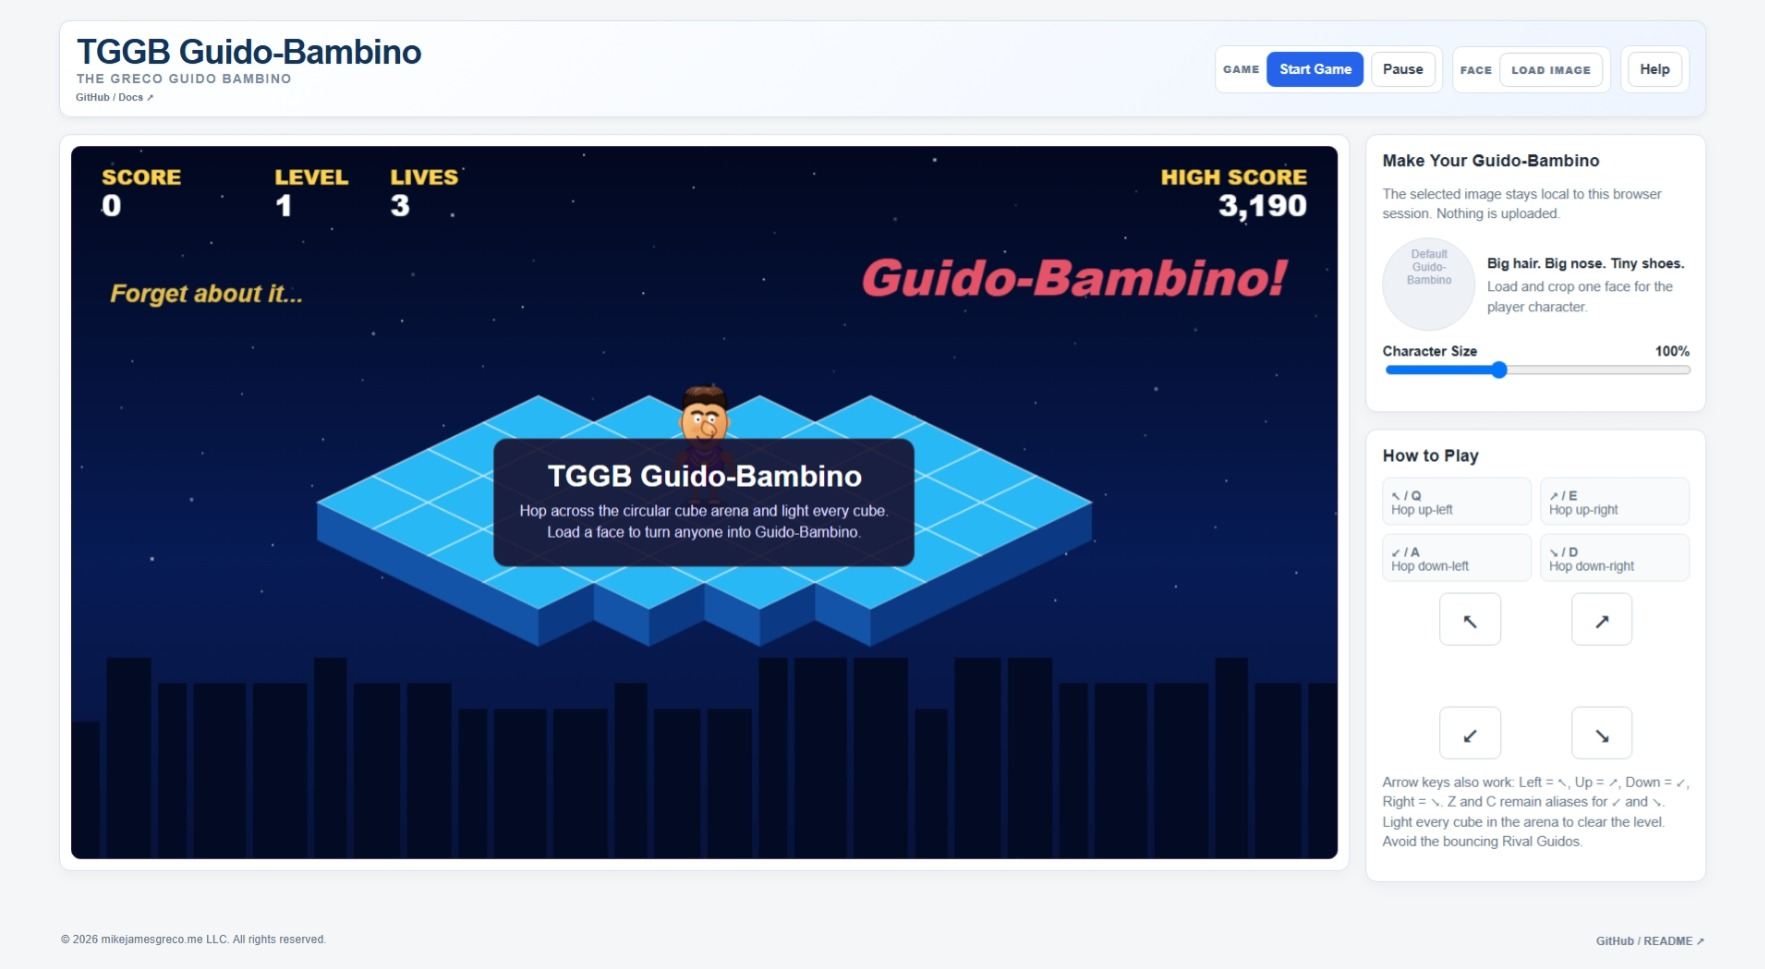
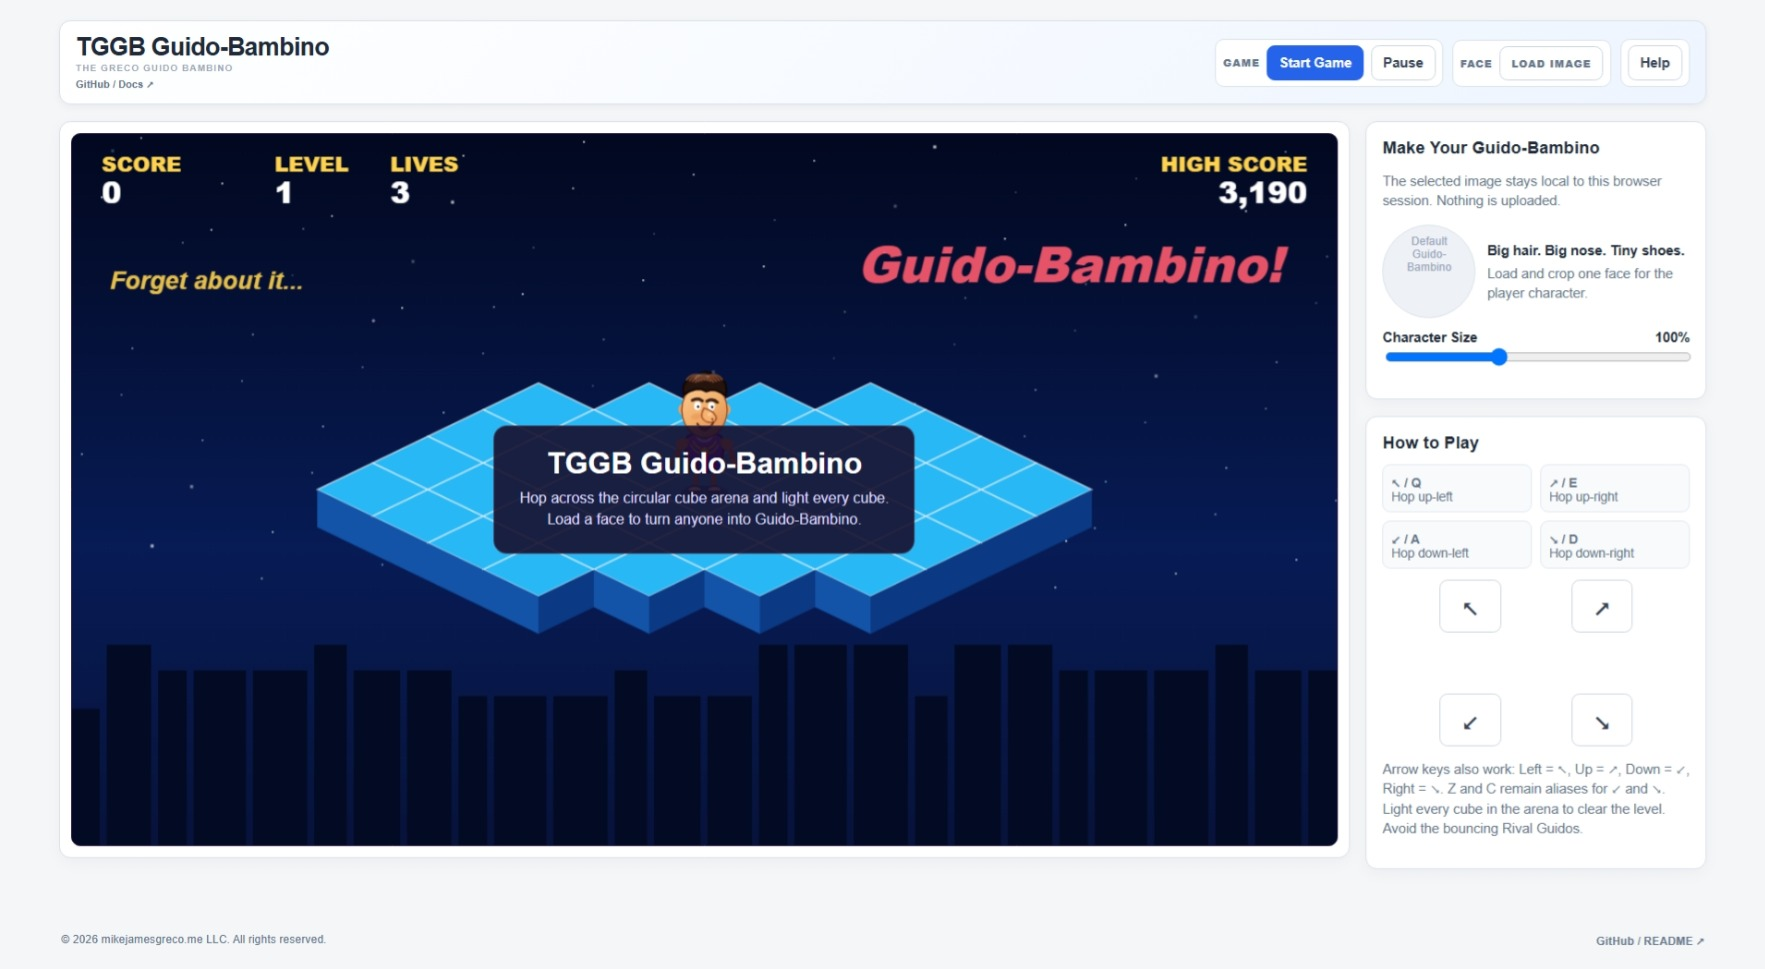
title update

diff --git a/tggb-guido-bambino.html b/tggb-guido-bambino.html
@@ -11,7 +11,7 @@
 html,body{margin:0;min-height:100%;font-family:Arial,Helvetica,sans-serif;background:var(--bg);color:var(--text)}
 body{padding:18px;overflow-y:auto}.app{max-width:1450px;margin:0 auto;min-height:calc(100vh - 36px);display:flex;flex-direction:column;gap:14px}
 .topbar{display:flex;align-items:center;justify-content:space-between;gap:14px;flex-wrap:wrap;padding:12px 14px;background:linear-gradient(135deg,#ffffff,#eef5ff);border:1px solid var(--line);border-radius:10px;box-shadow:0 2px 8px rgba(15,23,42,.05)}
-.brand{display:flex;flex-direction:column;gap:2px}.brand strong{font-size:30px;color:#12345b;line-height:1.02;letter-spacing:-.03em}.brand small{font-size:11px;font-weight:700;letter-spacing:.12em;text-transform:uppercase;color:#64748b;animation:blink 2.2s ease-in-out infinite}.brand .docs-link{font-size:9px;font-weight:700;color:#64748b;text-decoration:none;margin-top:1px}.brand .docs-link:hover{color:var(--blue);text-decoration:underline}@keyframes blink{0%,100%{opacity:.28}50%{opacity:.95}}
+.brand{display:flex;flex-direction:column;gap:2px}.brand strong{font-size:22px;line-height:1.02;letter-spacing:-.03em}.brand small{font-size:8px;font-weight:700;letter-spacing:.12em;text-transform:uppercase;color:#64748b;animation:blink 2.2s ease-in-out infinite}.brand .docs-link{font-size:9px;font-weight:700;color:#64748b;text-decoration:none;margin-top:1px}.brand .docs-link:hover{color:var(--blue);text-decoration:underline}@keyframes blink{0%,100%{opacity:.28}50%{opacity:.95}}
 .controls{display:flex;align-items:end;gap:8px;flex-wrap:wrap}.group{display:flex;align-items:center;gap:6px;padding:5px 6px;background:#fff;border:1px solid var(--line);border-radius:8px}.group label{font-size:9px;text-transform:uppercase;letter-spacing:.08em;font-weight:800;color:#64748b}
 button,.filebtn{border:1px solid #cbd5e1;background:#fff;color:#334155;border-radius:7px;padding:8px 10px;font:700 12px Arial,Helvetica,sans-serif;cursor:pointer;text-decoration:none;display:inline-flex;align-items:center;gap:6px}button:hover,.filebtn:hover{border-color:#94a3b8}button.primary{background:var(--blue);border-color:var(--blue);color:#fff}button.primary:hover{background:var(--blue2)}button:disabled{opacity:.45;cursor:not-allowed}input[type=file]{display:none}
 .layout{display:grid;grid-template-columns:minmax(0,1fr) 300px;gap:14px;align-items:start}.gamecard,.sidecard{background:#fff;border:1px solid var(--line);border-radius:10px;box-shadow:0 4px 15px rgba(15,23,42,.04)}.gamecard{padding:10px}.hud{display:none}.stat{background:var(--soft);border:1px solid #e2e8f0;border-radius:8px;padding:7px 8px}.stat b{display:block;font-size:15px}.stat span{font-size:9px;text-transform:uppercase;letter-spacing:.08em;color:#64748b;font-weight:800}
@@ -36,7 +36,7 @@ footer{margin-top:auto;padding:10px 2px 2px;color:#64748b;font-size:10px;display
 <div class="helpback" id="helpBack"><div class="modal"><div class="modalhead">TGGB Help</div><div class="modalbody"><h3>Goal</h3>Hop across the floating circular cube arena. Every safe landing lights that cube. Light the whole arena to advance to the next level.<h3>Movement</h3>Guido-Bambino moves only diagonally across adjacent cubes. Use the four diagonal buttons, Q/E/A/D, or the arrow keys. Z/C are also accepted as alternate down-left/down-right keys. Each move is a committed hop, so timing matters.<h3>Rival Guidos</h3>Rival Guidos are colorful little wiseguys who enter around the outer edge and hop across the arena. Each one gets a random look, hair, shirt, shades or mustache, and plenty of gold. Touching one costs a life — and briefly freezes the action while you get a visible and spoken “Forget about it!” They become more frequent as the levels increase. Every so often, an old-school black sedan cruises past, stops the action long enough to ask its very important pizza question, then the game resumes.<h3>Falling</h3>A hop outside the circular arena sends Guido-Bambino tumbling into space and costs a life. After a short pause, the character returns to the top if any lives remain.<h3>Face Image</h3>Load one local image, crop the face, and TGGB draws it onto the player character. The image is decoded locally and is not uploaded or stored.<h3>Privacy</h3>The loaded image exists only for this page session. Reloading or closing the page removes it.</div><div class="modalactions"><button id="closeHelp">Close</button></div></div></div>
 <script>
 (()=>{'use strict';
-const APP_VERSION='v0016';
+const APP_VERSION='v0017';
 const canvas=document.getElementById('game'),ctx=canvas.getContext('2d'),W=canvas.width,H=canvas.height;
 document.title=`TGGB Guido-Bambino ${APP_VERSION}`;
 const ui=Object.fromEntries(['score','highScore','level','lives','left','message','startBtn','pauseBtn','faceInput','facePreview','cropBox','cropCanvas','cropZoom','cropZoomVal','cropReset','cropDone','charSize','charSizeVal','helpBack','helpBtn','closeHelp'].map(id=>[id,document.getElementById(id)]));
